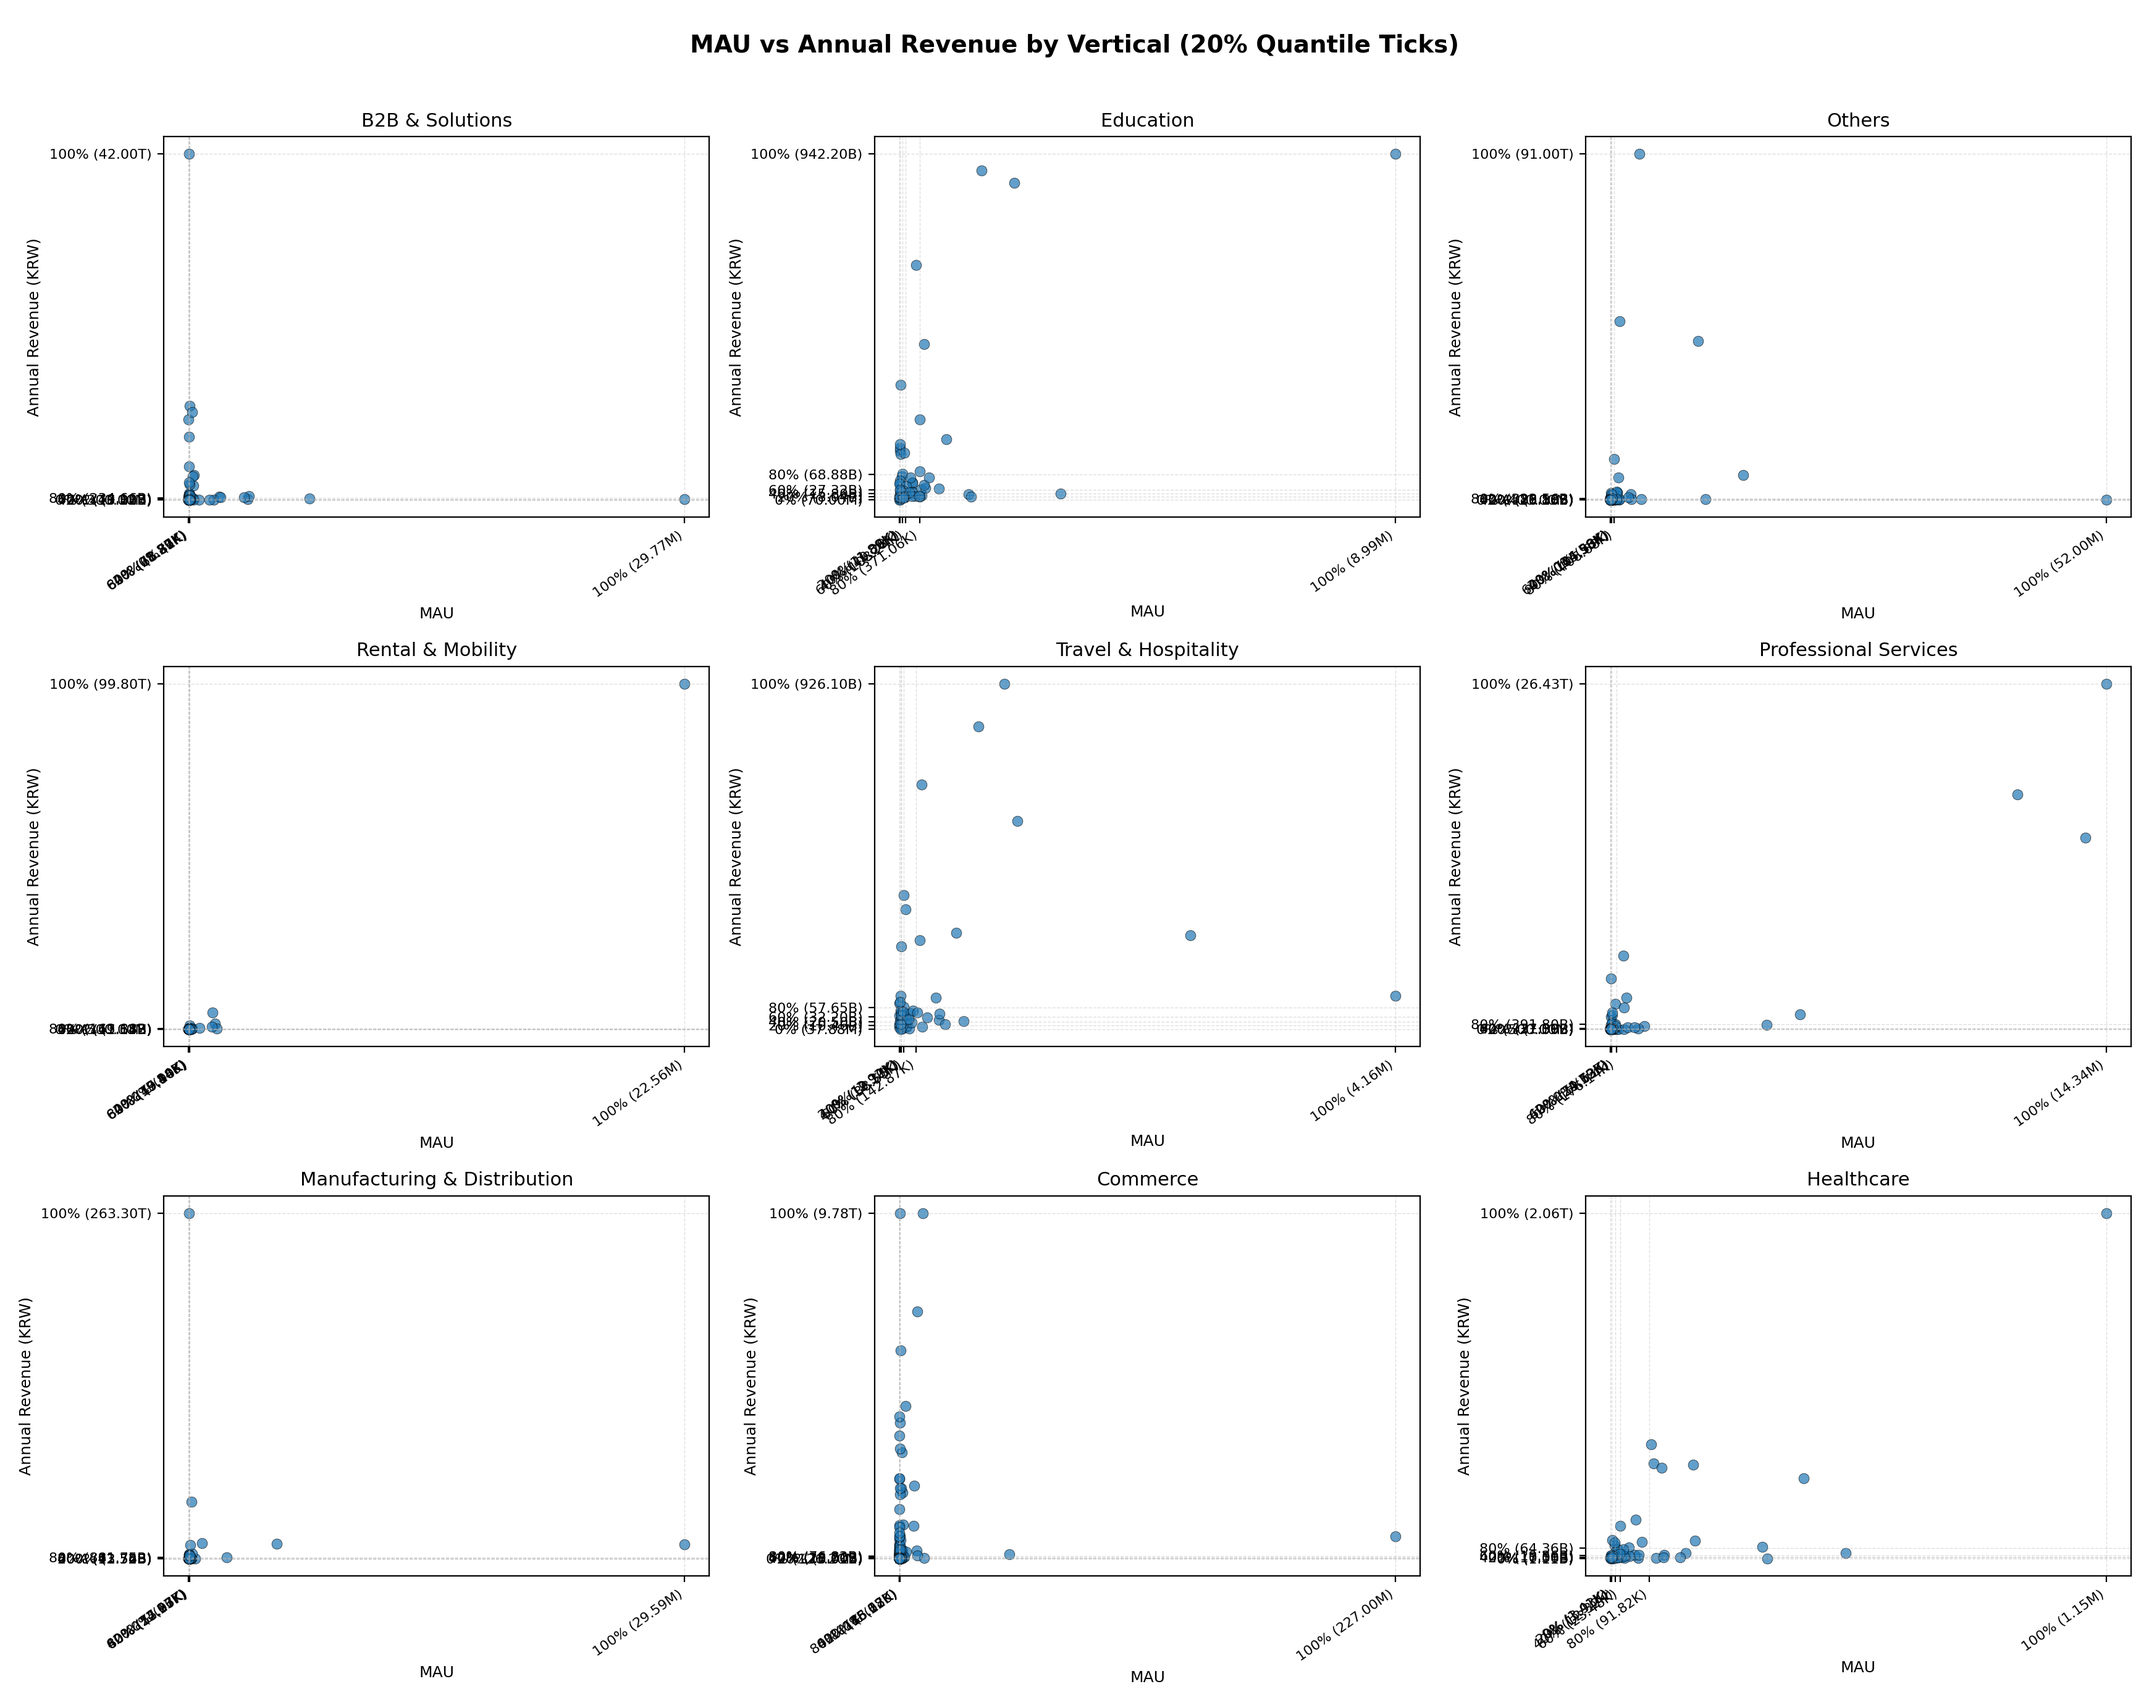
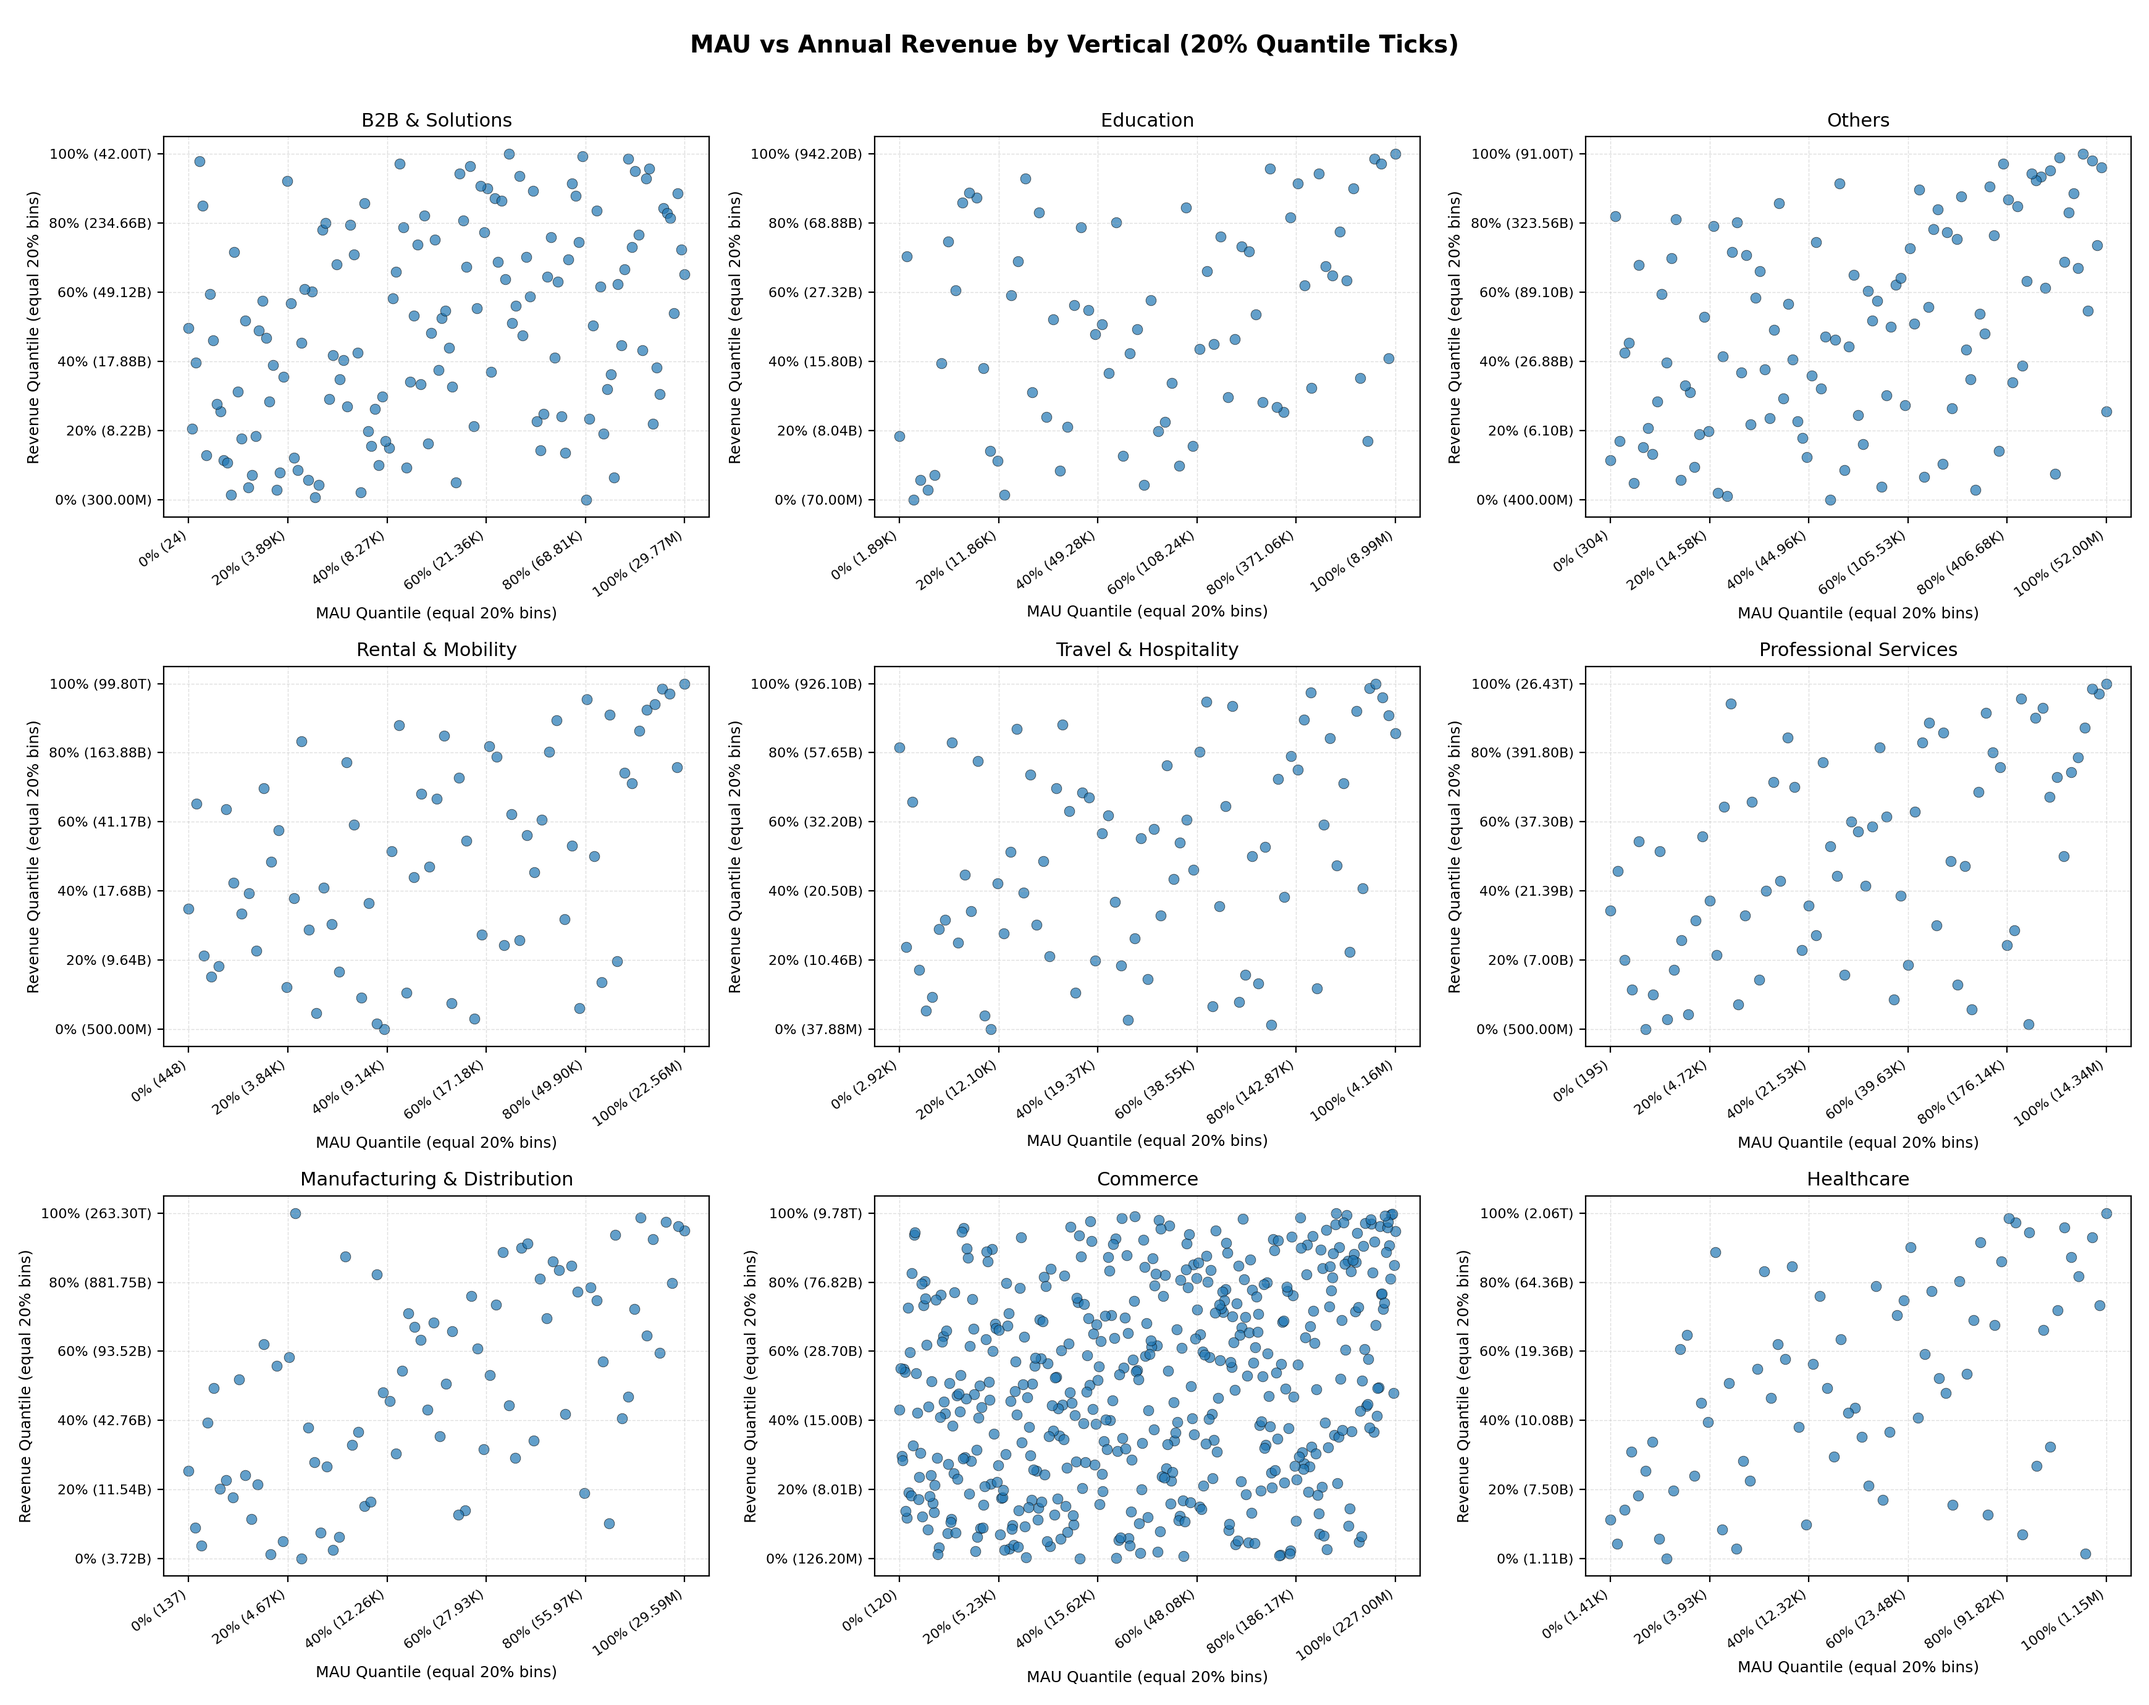
Refactor quantile axes for scatter plot

diff --git a/scripts/plot_vertical_quantile_scatter.py b/scripts/plot_vertical_quantile_scatter.py
@@ -45,15 +45,24 @@ def _parse_numeric(series: pd.Series) -> pd.Series:
     return pd.to_numeric(cleaned, errors="coerce")
 
 
-def _quantile_ticks(values: np.ndarray) -> tuple[list[float], list[str]]:
-    """Return tick values and labels at every 20% quantile."""
+def _quantile_axes(values: np.ndarray) -> tuple[np.ndarray, np.ndarray, list[str]]:
+    """Return quantile-based positions plus evenly spaced ticks and labels."""
     if values.size == 0:
-        return [], []
+        return values, np.array([]), []
 
-    quantiles = np.linspace(0, 1, 6)
-    ticks = np.quantile(values, quantiles, method="linear")
-    labels = [f"{int(q * 100)}% ({_format_value(tick)})" for q, tick in zip(quantiles, ticks)]
-    return ticks.tolist(), labels
+    sorted_idx = np.argsort(values)
+    positions = np.empty_like(values, dtype=float)
+    if values.size == 1:
+        positions[sorted_idx] = 0.5
+    else:
+        positions[sorted_idx] = np.linspace(0.0, 1.0, values.size)
+
+    quantiles = np.linspace(0.0, 1.0, 6)
+    tick_labels = [
+        f"{int(q * 100)}% ({_format_value(val)})"
+        for q, val in zip(quantiles, np.quantile(values, quantiles, method="linear"))
+    ]
+    return positions, quantiles, tick_labels
 
 
 def load_data(path: Path) -> pd.DataFrame:
@@ -72,8 +81,6 @@ def _display_name(vertical_value: str) -> str:
 
 
 def plot_scatter(df: pd.DataFrame, output_path: Path) -> None:
-    df = df.copy()
-    df["Vertical Display"] = df["Vertical"].apply(_display_name)
     verticals = sorted(df["Vertical"].unique())
     if not verticals:
         raise ValueError("No vertical data found after filtering.")
@@ -85,28 +92,30 @@ def plot_scatter(df: pd.DataFrame, output_path: Path) -> None:
     for idx, vertical in enumerate(verticals):
         ax = axes[idx // cols][idx % cols]
         subset = df[df["Vertical"] == vertical]
+        x_positions, xticks, xlabels = _quantile_axes(subset["MAU"].to_numpy())
+        y_positions, yticks, ylabels = _quantile_axes(subset["Annual Revenue"].to_numpy())
+
         ax.scatter(
-            subset["MAU"],
-            subset["Annual Revenue"],
+            x_positions,
+            y_positions,
             s=36,
             alpha=0.7,
             edgecolors="black",
             linewidths=0.3,
         )
 
-        xticks, xlabels = _quantile_ticks(subset["MAU"].to_numpy())
-        yticks, ylabels = _quantile_ticks(subset["Annual Revenue"].to_numpy())
-
-        if xticks:
+        if xticks.size:
             ax.set_xticks(xticks)
             ax.set_xticklabels(xlabels, rotation=35, ha="right", fontsize=8)
-        if yticks:
+            ax.set_xlim(-0.05, 1.05)
+        if yticks.size:
             ax.set_yticks(yticks)
             ax.set_yticklabels(ylabels, fontsize=8)
+            ax.set_ylim(-0.05, 1.05)
 
         ax.set_title(_display_name(vertical), fontsize=11)
-        ax.set_xlabel("MAU", fontsize=9)
-        ax.set_ylabel("Annual Revenue (KRW)", fontsize=9)
+        ax.set_xlabel("MAU Quantile (equal 20% bins)", fontsize=9)
+        ax.set_ylabel("Revenue Quantile (equal 20% bins)", fontsize=9)
         ax.grid(True, linestyle="--", linewidth=0.5, alpha=0.4)
 
     # Hide any unused axes.
